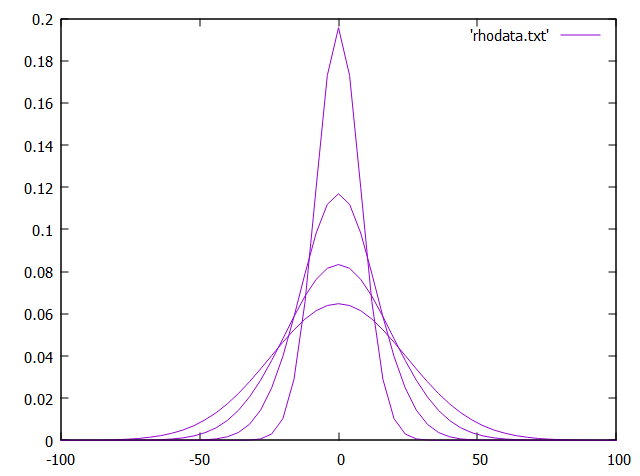
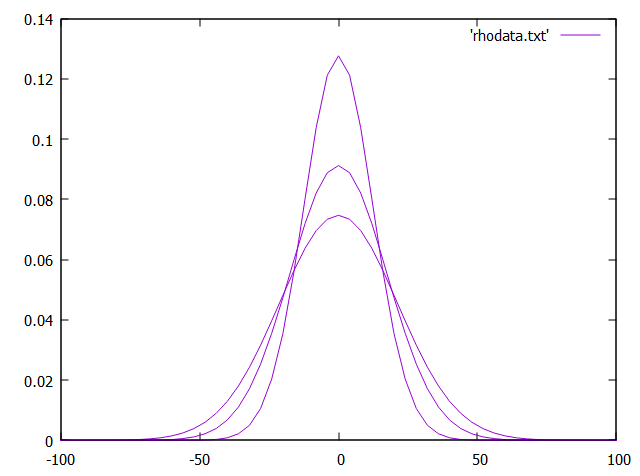
ispravak

diff --git a/Vjezbe3/Z3.c b/Vjezbe3/Z3.c
@@ -125,7 +125,7 @@ int main(void)
   {
     for (int j = 0; j <= 50; j++)
     {
-      if (i == 20 || i == 60 || i == 120 || i == 200)
+      if (i == 50 || i == 100 || i == 150)
       {
         fprintf(rhodata, "%f %f\n", j * delta_x - 100, rho[j]);
         if (j == 50)
